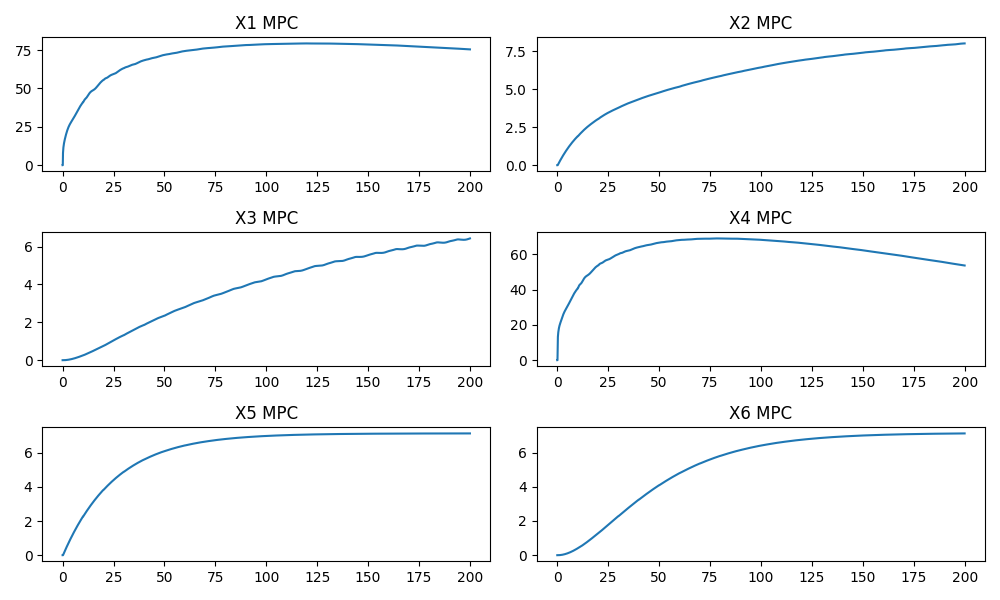
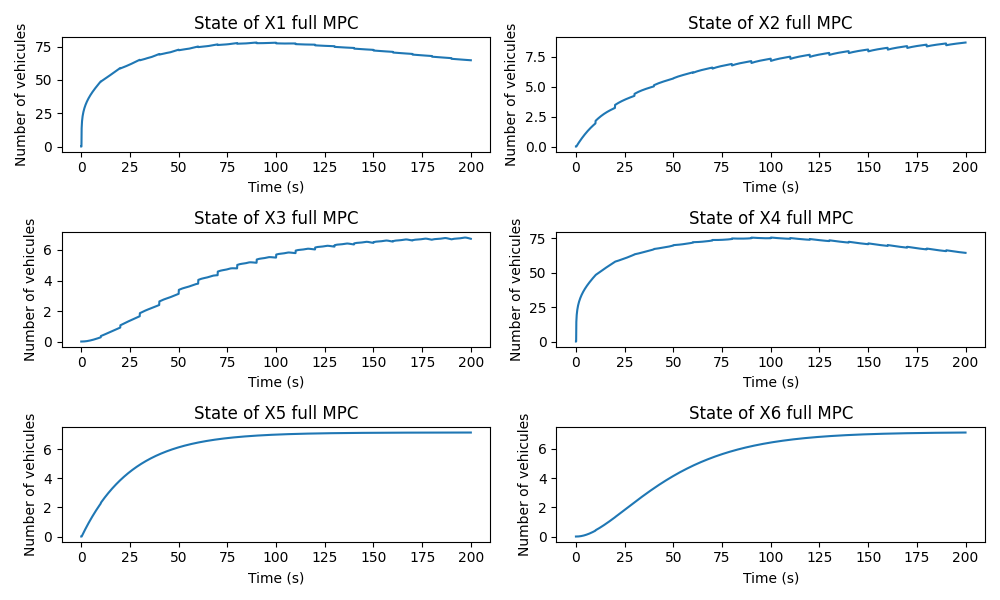
corrections finales et nouvelles simulations, on retrouve bien la solution du MPC avec le simulateur

diff --git a/model.py b/model.py
@@ -121,9 +121,10 @@ class Simulation:
 
     
     # Computes the outflow of a tank to obtain same result than mpc algo
-    def new_f_tank_mpc(self,i,s,k,Alpha):
-        u =min(self.T[i].uref,self.T[i].x[-1])
-        return min(Alpha[self.T_index[i], k]*u, self.X[s].s_fcn())
+    def new_f_tank_mpc(self,i,s,k,u):
+        # u =min(self.T[i].uref,self.T[i].x[-1])
+        # return min(Alpha[self.T_index[i], k]*u, self.X[s].s_fcn())
+        return (u[self.T_index[i], k])
 
     # Decides the value of uref to empty the tanks one after another
     def command_manager(self,tanks_list,uref):
@@ -218,13 +219,13 @@ class Simulation:
                 else:
                     self.X[i].x.append(self.X[i].x[-1] + h*(sum(self.f(j.name,i,k) for j in l) - self.f_end(i))) # ordre important
     
-    def simu_mpc(self, h, N, u, Gamma, Alpha):
+    def simu_mpc(self, h, N, u, Gamma):
         tanks_list = list(self.T.keys())
         for k in range (N):
             self.command_manager_mpc(tanks_list, u, k-1)
             for t in self.T:
                 d = list(self.graph.successors(self.sommets[t]))
-                self.T[t].x.append(self.T[t].x[-1] - sum(h*(self.new_f_tank_mpc(t,s.name,k,Alpha)) for s in d)) 
+                self.T[t].x.append(self.T[t].x[-1] - sum(h*(self.new_f_tank_mpc(t,s.name,k,u)) for s in d)) 
             for i in self.X:
                 l = list(self.graph.predecessors(self.sommets[i]))
                 # print("Voisins de " + str(i.name) + ": ", l)
@@ -233,7 +234,7 @@ class Simulation:
                     somme = 0
                     for j in l:
                         if j.name.startswith("T"):
-                            somme += self.new_f_tank_mpc(j.name,i,k,Alpha)
+                            somme += self.new_f_tank_mpc(j.name,i,k,u)
                         else:
                             somme += self.f_mpc(j.name,i,k,Gamma)
 
@@ -263,10 +264,10 @@ class Simulation:
         X = cp.Variable((nt+nc, nh+1))
         
         Gamma = np.zeros((nc, M))
-        Alpha = np.zeros((nt, M))
+        # Alpha = np.zeros((nt, M))
 
         # Complete vector U of commands
-        U = cp.Variable((nt, nh))
+        # U = cp.Variable((nt, nh))
 
         ######### Cost function #########
         # Now we can try to penalize the number of vehicles present in the whole network
@@ -288,7 +289,7 @@ class Simulation:
             for k in range(nh):
                 constr += [Sf[:, k] <= (Cap - W @ X[2:8, k])]
                 # constr += [Sf[:, k] >= 0]
-                constr += [U[:, k] >= 0, U[:, k] <= X[0:2, k]]
+                # constr += [U[:, k] >= 0, U[:, k] <= X[0:2, k]]
                 constr += [Ft[:, k] <= cp.vstack([Sf[0, k], Sf[3, k]])]
                 for i in range(nc):
                     # constr += [Z[i, k] <= x_max * Gamma[i, k],
@@ -302,7 +303,8 @@ class Simulation:
             constr += [Df <= Fmax]
             constr += [Ft >= 0]
             constr += [Fc >= 0]
-            constr += [Ft <= U]
+            constr+=[X>=0]
+            # constr += [Ft <= U]
             # constr += [Gamma >= 0, Gamma <= 1]
             prob = cp.Problem(obj, constr)
 
@@ -310,33 +312,34 @@ class Simulation:
 
             # print("U.value =", U.value)
 
-            u = U.value[:,0:M]
+            # u = U.value[:,0:M]
+            u = Ft.value[:,0:M]
             
             U_hist[:, k_simu:k_simu+M] = u
             X_hist[:, k_simu+1:k_simu+M+1] = X.value[:,0:M]
 
             # We set X0 to the last vector X given by the MPC algo
-            X0 = X.value[:,M-1].reshape(-1,1) 
+            # X0 = X.value[:,M-1].reshape(-1,1) 
 
             # We compute Gamma
             for i in range(nc):
                 for j in range(M):
                     Gamma[i,j] = float(Fc[i,j].value/Df[i,j].value)
             # We compute Alpha
-            for i in range(nt):
-                for j in range(M):
-                    Alpha[i,j] = float(Ft[i,j].value/U[i,j].value)
+            # for i in range(nt):
+            #     for j in range(M):
+            #         Alpha[i,j] = float(Ft[i,j].value/U[i,j].value)
             # We simulate the system
-            self.simu_mpc(h, M, u, Gamma, Alpha)
+            self.simu_mpc(h, M, u, Gamma)
 
             # We set X0 to the last states X computed by the simulator
-            # for i in self.T:
-            #     Xt0[self.T_index[i],0] = self.T[i].x[-1]
-            # for i in self.X:
-            #     Xc0[self.X_index[i],0] = self.X[i].x[-1]
-            # Xt0_1d = cp.Constant(Xt0)
-            # Xc0_1d = cp.Constant(Xc0)
-            # X0 = cp.vstack([Xt0_1d, Xc0_1d])
+            for i in self.T:
+                Xt0[self.T_index[i],0] = self.T[i].x[-1]
+            for i in self.X:
+                Xc0[self.X_index[i],0] = self.X[i].x[-1]
+            Xt0_1d = cp.Constant(Xt0)
+            Xc0_1d = cp.Constant(Xc0)
+            X0 = cp.vstack([Xt0_1d, Xc0_1d])
 
 
         ########## Update sequences of states and inputs ############
@@ -380,7 +383,9 @@ class Simulation:
         # Boucle sur chaque variable
         for i, var in enumerate(dict):
             axs[i].plot(t,dict[var].x)
-            axs[i].set_title(var)
+            axs[i].set_xlabel("Time (s)") 
+            axs[i].set_ylabel("Number of vehicules")
+            axs[i].set_title("State of " + var + " Simulator run on MPC solution")
 
         # Supprimer les subplots vides si n n'est pas multiple de cols
         for j in range(i+1, len(axs)):
@@ -404,7 +409,9 @@ class Simulation:
         # Boucle sur chaque variable
         for i in range(n_rows):
             axs[i].plot(t,table[i,:])
-            axs[i].set_title(label + str(i+1) + " MPC")
+            axs[i].set_xlabel("Time (s)") 
+            axs[i].set_ylabel("Number of vehicules")
+            axs[i].set_title("State of " + label + str(i+1) + " full MPC")
         
         # Supprimer les subplots vides si n n'est pas multiple de cols
         for j in range(i+1, len(axs)):
